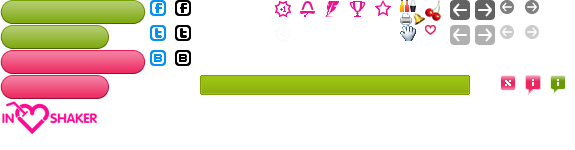
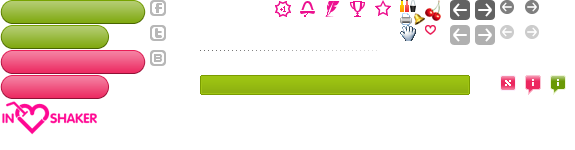
update tasteit

Changed region(s): [[0.2365, 0.32, 0.3548, 0.4533], [0.2365, 0.16, 0.3548, 0.2933], [0.2365, 0.0, 0.3548, 0.1067]]

diff --git a/htdocs/t/branding/tasteit/branding.css b/htdocs/t/branding/tasteit/branding.css
@@ -13,16 +13,37 @@
 .cocktail-list .prev,
 .cocktail-list .next,
 button.rounded,
-#share-box .button i { background-repeat: no-repeat; background-image: url(common.png); }
-#common-footer .alcohol-harm { background-repeat: no-repeat; background-image: url(alcohol-harm.png); }
+.common-share-box .button i { background-repeat: no-repeat; background-image: url(common.png); }
+#spotlighted i { }
 #branded-image { display: none; }
+#branded-image-holder { }
+html.float-fixed #branded-image-holder { }
+html.stick-bottom #branded-image-holder { }
 a { color: #0392f1; }
-#common-footer { color: #788894; }
-#common-footer a {}
 html { background: #000 url(bg.png) repeat-x center 47px; }
 html.branding-short { background: url(bg-short.png) repeat-x 0 65px #fff; }
-button.rounded b { text-shadow: 1px 1px 0 #576d1d; }
-button.strong b { text-shadow: 1px 1px 0 #8f2b47; }
+button.rounded b,
+button.strong b { text-shadow: 1px 1px 1px rgba(0,0,0,0.4); }
+button.rounded b { color: #fff; }
+button.strong b { color: #000; }
+
+
+/* footer */
+#common-footer { color: #aaa; background-color: #000; box-shadow: 0 -8px 12px #000; }
+#common-footer a { color: inherit; }
+#common-footer a:hover { color: #fff; }
+#common-footer .index { border-bottom: solid 1px #2a2929; }
+#common-footer .index .theme .head { color: #eee; }
+#common-footer .index .theme .head:after { background-image: url(common.png); }
+#common-footer .bottom { box-shadow: 0 -50px 150px #1e1c1c; }
+#common-footer .alcohol-harm { background-repeat: no-repeat; background-image: url(alcohol-harm.png); }
+
+html.barmen-section #common-footer .about-menu .link.barmen,
+html.job-section #common-footer .link.job,
+html.about-page #common-footer .link.about,
+html.cocktail-groups-section #common-footer .about-menu .link.cocktail-groups
+{ color: #fff; cursor: default; text-decoration: none !important; }
+
 
 /* calculator.css */
 #b-bill dt,
